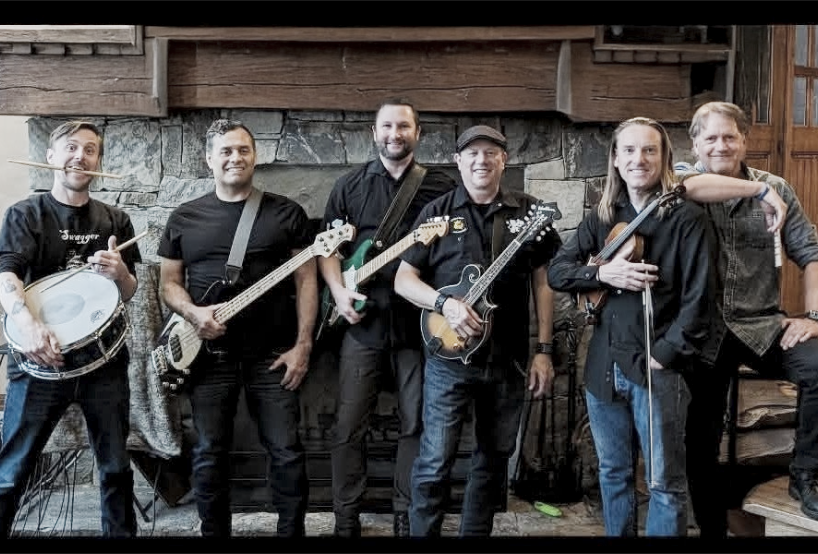
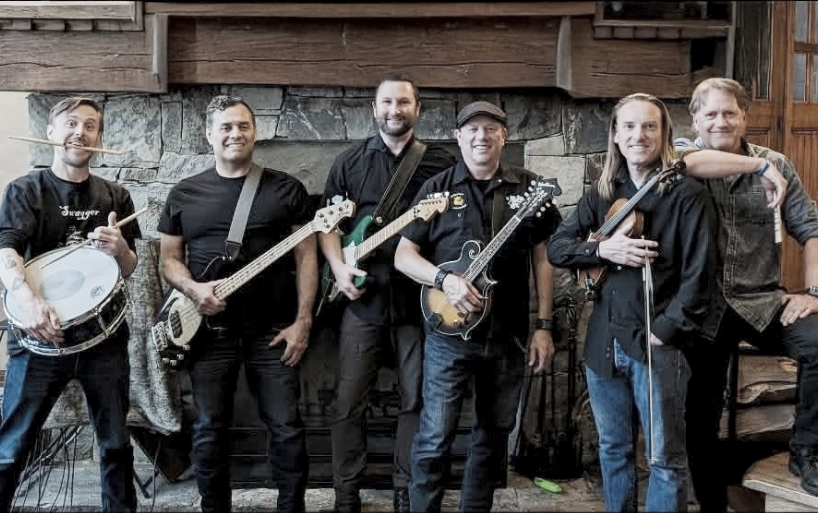
Crop black letterbox bars from the bio band photo.

diff --git a/src/index.css b/src/index.css
@@ -518,15 +518,14 @@ select {
   border: 1px solid var(--gold-line);
   overflow: hidden;
   background: var(--velvet-deep);
-  aspect-ratio: 4 / 3;
+  aspect-ratio: auto;
 }
 
 .home-about__photo {
   width: 100%;
-  height: 100%;
-  object-fit: cover;
-  object-position: center;
+  height: auto;
   display: block;
+  vertical-align: top;
 }
 
 .home-about__visual::after {